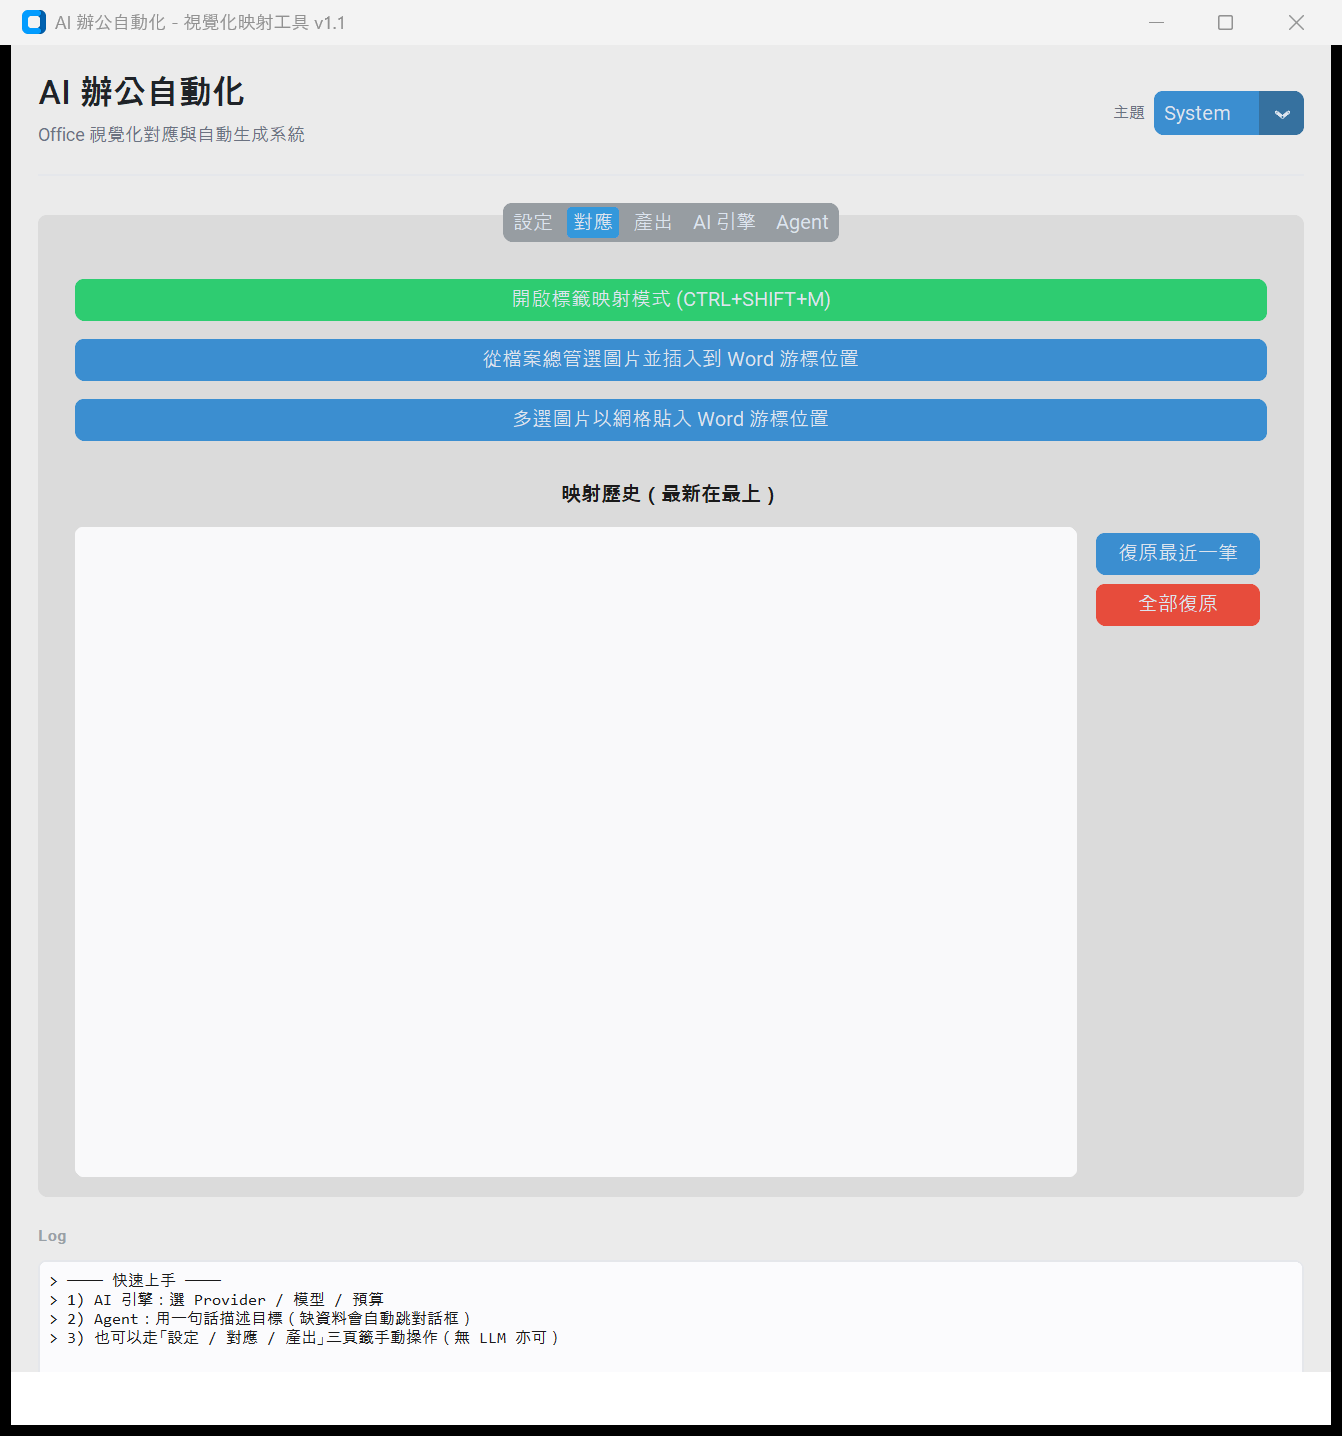
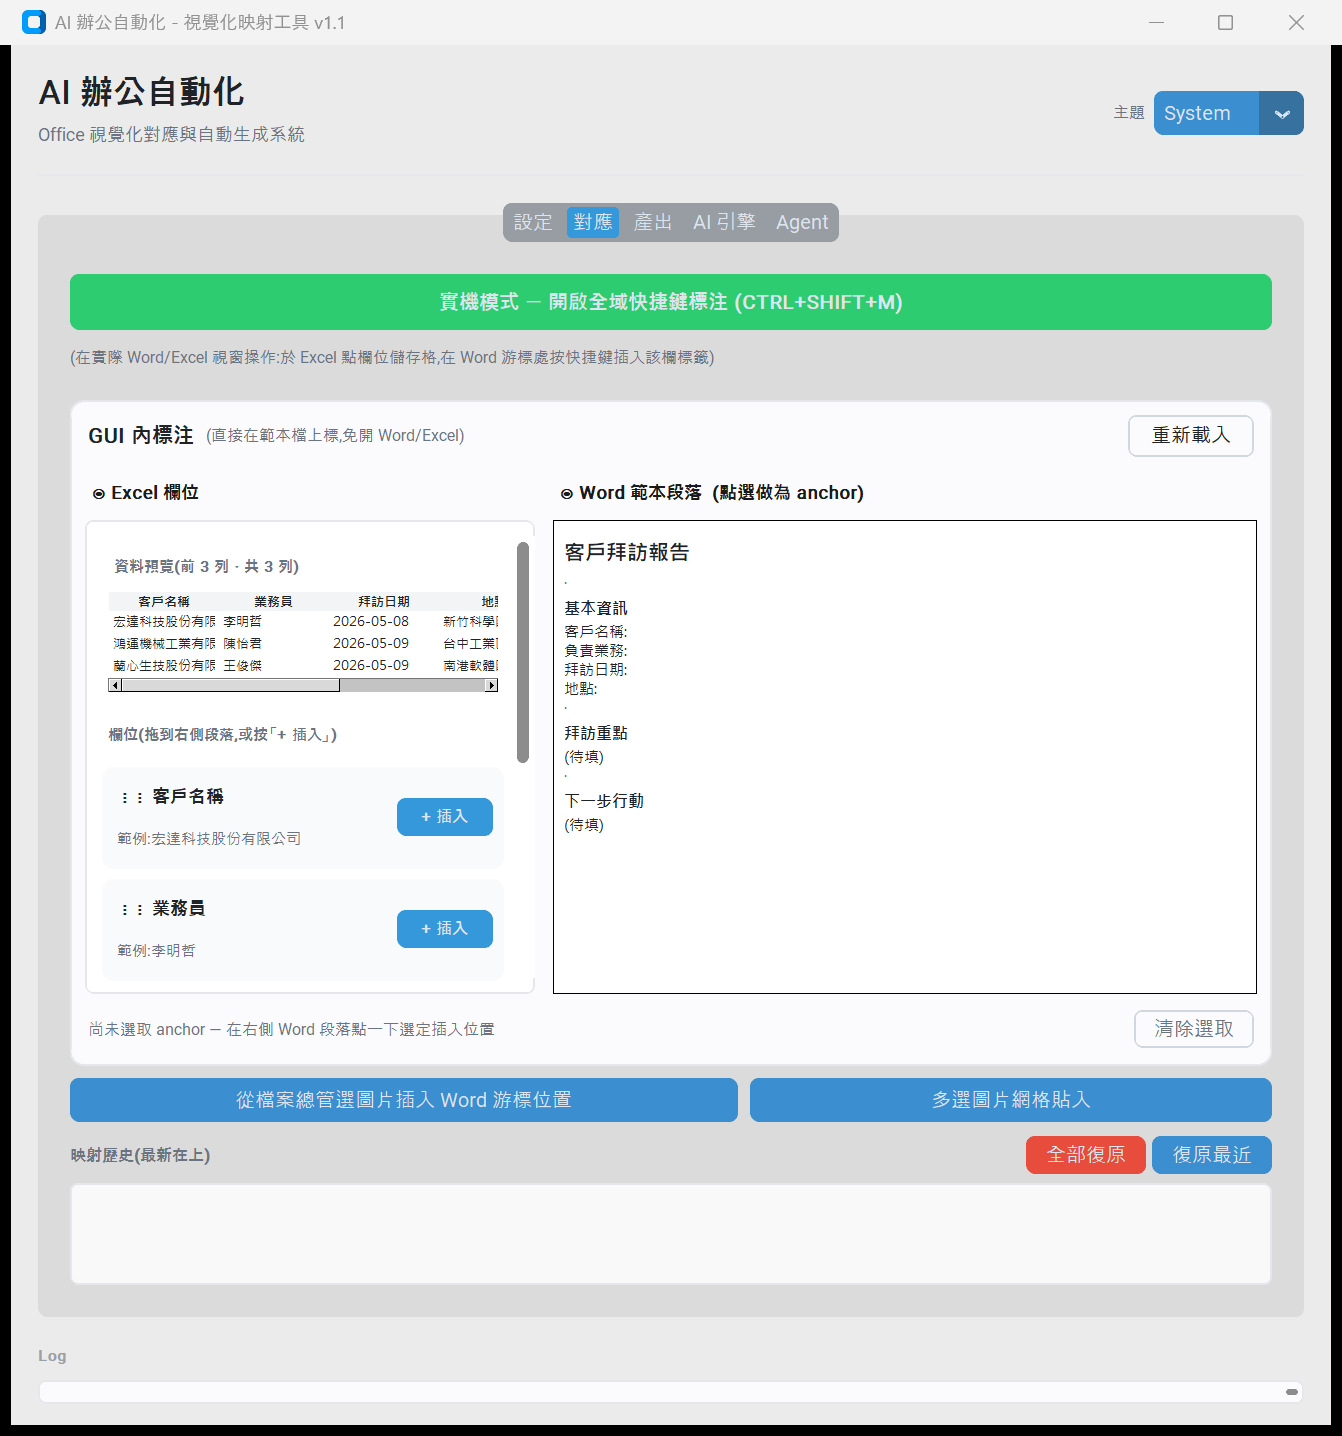
docs: v3 — mapping side-by-side panel + drag-drop screenshots
- 02_mapping.png 換成新的左右對照面板
- 07_mapping_drag.png:拖拉中(drop target 黃色高亮 + 浮動 tooltip)
- 08_mapping_after.png:落地後(段落內變數紫字渲染 + 歷史記錄)
- 09_mapping_complete.png:全部標完(4 個欄位映射完成)
- index.html 同步加 4 張 + 副標更新成 v3

diff --git a/index.html b/index.html
@@ -97,8 +97,8 @@
 </head>
 <body>
   <header>
-    <h1>AI 辦公自動化 — 視覺化映射工具 <span style="color:var(--accent)">v2</span></h1>
-    <p>5 個分頁的 GUI 截圖 · UI/UX 重做 · 助理對話支援 markdown 與表格渲染</p>
+    <h1>AI 辦公自動化 — 視覺化映射工具 <span style="color:var(--accent)">v3</span></h1>
+    <p>UI/UX 重做 · 對應 tab 左右對照 (Excel ↔ Word) · 拖拉欄位到段落直接標注 · 助理對話支援 markdown 與表格渲染</p>
   </header>
 
   <main>
@@ -114,10 +114,37 @@
     <figure>
       <figcaption>
         <span class="tag">02</span>
-        <h2>對應</h2>
-        <span class="desc">標籤映射模式 (Ctrl+Shift+M) · 從檔總管插圖 · 多選網格貼入 · 映射歷史</span>
+        <h2>對應 · 左右對照</h2>
+        <span class="desc">左:Excel Treeview 預覽真實資料 + 欄位 list (⋮⋮ 拖拉) · 右:Word 段落 style-aware 渲染 (Title / Heading 2 / Normal)</span>
       </figcaption>
-      <img src="img/02_mapping.png" alt="對應分頁">
+      <img src="img/02_mapping.png" alt="對應分頁 — 左右對照">
+    </figure>
+
+    <figure>
+      <figcaption>
+        <span class="tag">02a</span>
+        <h2>拖拉中</h2>
+        <span class="desc">Drop target 段落黃色高亮 + 浮動 tooltip 跟著游標,顯示要插入的變數名</span>
+      </figcaption>
+      <img src="img/07_mapping_drag.png" alt="拖拉中:drop target 高亮 + tooltip">
+    </figure>
+
+    <figure>
+      <figcaption>
+        <span class="tag">02b</span>
+        <h2>落地後</h2>
+        <span class="desc">「客戶名稱:」段落變成「客戶名稱:{{ 客戶名稱 }}」,變數紫字渲染 · 映射歷史記錄一筆</span>
+      </figcaption>
+      <img src="img/08_mapping_after.png" alt="拖拉落地後:變數已寫入 docx">
+    </figure>
+
+    <figure>
+      <figcaption>
+        <span class="tag">02c</span>
+        <h2>全部標完</h2>
+        <span class="desc">4 次拖拉完成所有欄位映射 · 映射歷史完整紀錄 · docx 真檔已被改寫</span>
+      </figcaption>
+      <img src="img/09_mapping_complete.png" alt="全部標完:4 個欄位完成">
     </figure>
 
     <figure>
